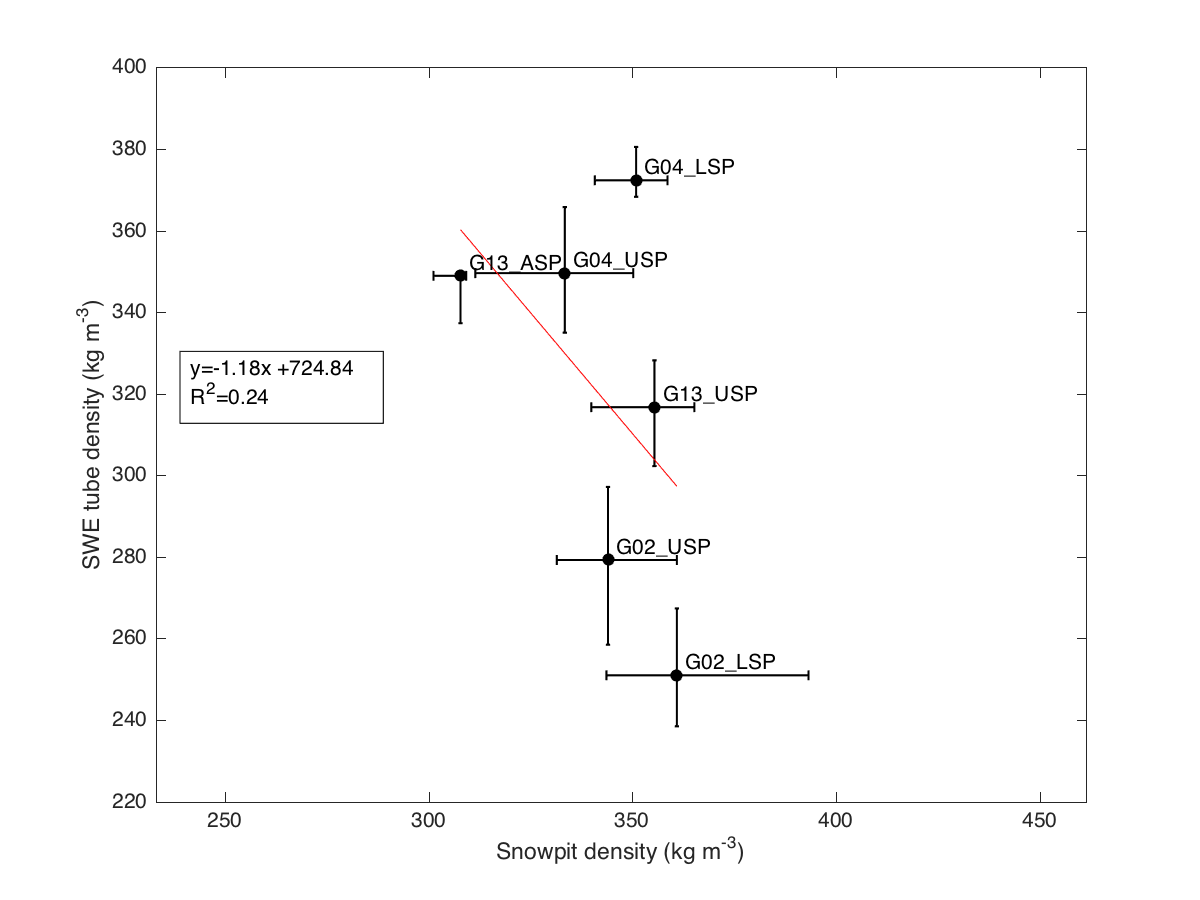
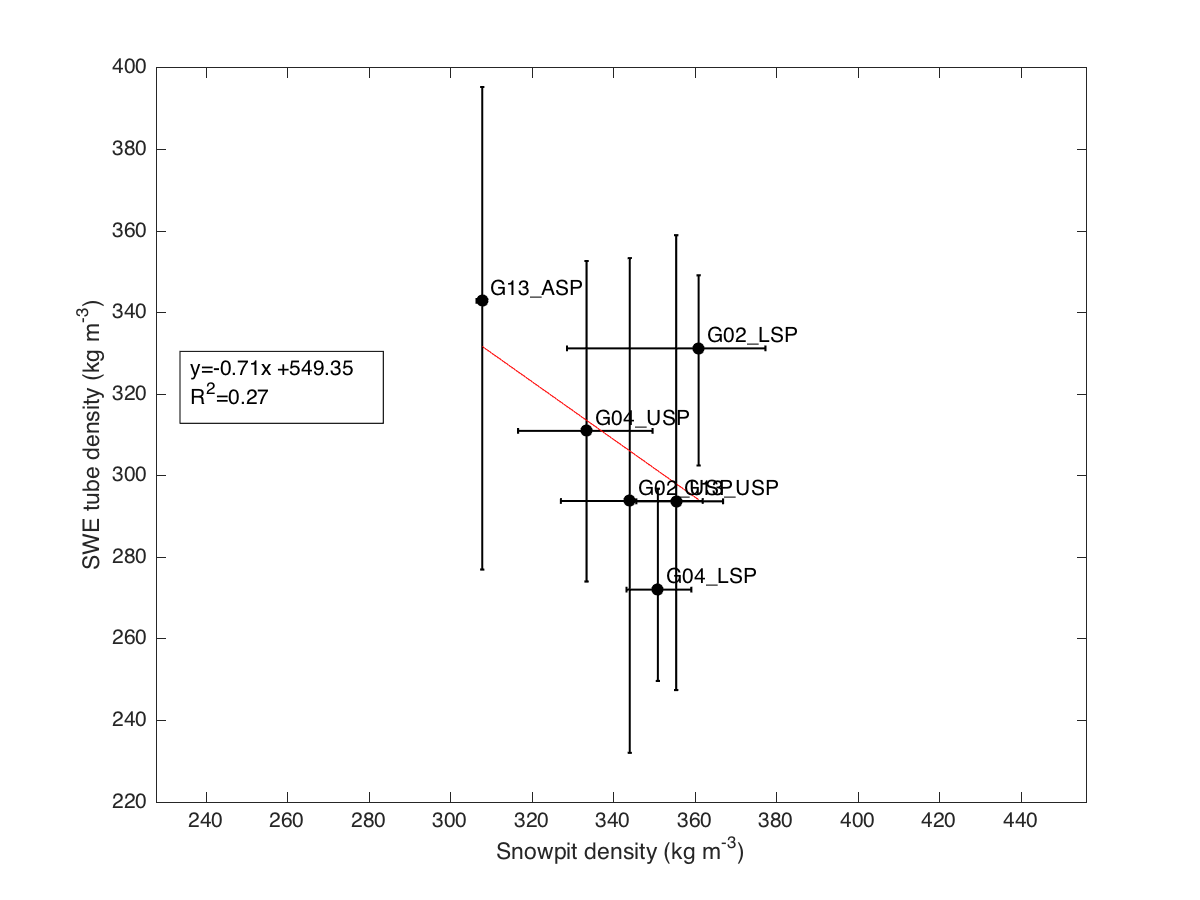
Minor

diff --git a/Methods/Appendix - Density.tex b/Methods/Appendix - Density.tex
@@ -19,9 +19,6 @@
 \Large \textbf{Appendix\\ Density}
 \end{center}
 
-tube vs depth - correction, new SP vs tube
-elevation relation
-
 \subsection*{Federal Sampler measurements and snow depth}
 
 A plot of measured SWE and snow depth can be seen in Figure \ref{fig:tube_depth}. A positive linear relation exists (R$^2$ = 0.55). This positive relationship could be a result of physical processes, such as compaction and/or artifacts during data collection. The range of densities measured by the Federal sampler is large (225--410 kg m^{-3}) and the extreme values seem unlikely to exist at these study glaciers, which experience a continental snowpack with minimal mid-winter melt events. Furthermore, compaction effects would likely be small at these study glaciers because of the relatively shallow snowpack (deepest measurement was 285 cm). A plot of the depth-density relationship in snowpits can be seen in Figure \ref{fig:pit_depth}. No linear relationship exists between depth and snowpit-derived density (R$^2$ = 0.05). Together, these conditions lead to the likely conclusion that the Federal Sampler measurements are biased. 
@@ -52,7 +49,7 @@ To account for this likely artifact, the simplest form of linear detrending was 
 
 \subsection*{Basic statistics}
 
-A summary of density data collected in snowpits and when using a Federal Sampler can be seen in Table \ref{tab:density_stats}. The standard deviation of each type of density measurement is also less than 10\% of the mean density. For snowpit derived densities, the mean density is indistinguishable between glaciers within one standard deviation. This was not observed in densities derived from Federal Sampler measurements --- Glacier 2 had the lowest mean density and Glacier 4 had the highest mean density. The mean of all Federal Sampler density values was likely skewed by the proportionally large number of measurements obtained on Glacier 13, and is thus indistinguishable from Glacier 13 mean density and different than both Glacier 4 and 2 mean density. 
+A summary of density data collected in snowpits and when using a Federal Sampler can be seen in Table \ref{tab:density_stats}. The standard deviation of each type of density measurement is also less than 10\% of the mean density. For snowpit derived densities, the mean density is indistinguishable between glaciers within one standard deviation. This was also observed in the detrended densities derived from Federal Sampler measurements . The mean of all Federal Sampler density values was likely skewed by the proportionally large number of measurements obtained on Glacier 13.
 
 \begin{table}[b!]
 \centering
@@ -61,10 +58,10 @@ A summary of density data collected in snowpits and when using a Federal Sampler
 \begin{tabular}{ccccccc}
 \multirow{2}{*}{\textbf{Glacier}} & \multicolumn{3}{c}{\textbf{Snowpits}}     & \multicolumn{3}{c}{\textbf{Federal Sampler}} \\ 
                                   & Mean & Std & n & Mean  & Std  & n \\ \hline
-\textbf{G04}                      & 348           & 13           & 3          & 360            & 10            & 7           \\
-\textbf{G02}                      & 333           & 26           & 4          & 275            & 18            & 7           \\
-\textbf{G13}                      & 349           & 26           & 3         & 321            & 9             & 17          \\
-\textbf{All}                      & 342           & 26           & 10         & 321            & 9             & 31         
+\textbf{G04}                      & 348           & 13           & 3          & 327            & 32            & 7           \\
+\textbf{G02}                      & 333           & 26           & 4          & 326            & 23            & 7           \\
+\textbf{G13}                      & 349           & 26           & 3         & 307           & 32            & 17          \\
+\textbf{All}                      & 342           & 26           & 10         & 316            & 31             & 31         
 \end{tabular}
 \end{table}
 
@@ -139,11 +136,9 @@ G13\_Z5B\_SWE & 2 & 322 & 318 & 325 & 2
 \end{tabular}
 \end{table}
 
-
-
 \subsection*{Comparing density from snowpit and Federal Sampler measurements}
 
-To compare snowpit-derived densities and Federal Sampler-derived densities, eight Federal Sampler measurements were taken around two snowpit locations on each study glacier. The results are seen in Figure \ref{fig:density_pitVStube}. The overall range of Federal Sampler-derived densities is considerably larger than that of the snowpit-derived density values. A linear regression of the data gives a weak inverse relationship (R$^2$ = 0.24).
+To compare snowpit-derived densities and Federal Sampler-derived densities, eight Federal Sampler measurements were taken around two snowpit locations on each study glacier. The results are seen in Figure \ref{fig:density_pitVStube}. The overall range of Federal Sampler-derived densities is larger than that of the snowpit-derived density values. A linear regression of the data gives a weak inverse relationship (R$^2$ = 0.27). Within the range of possible values (minimum and maximum densities), the density values are same for all snowpit locations except for `G13\_ASP'.
 
 \begin{wrapfigure}{r}{\textwidth} 
 	\centering
@@ -153,7 +148,25 @@ To compare snowpit-derived densities and Federal Sampler-derived densities, eigh
 \end{wrapfigure}
 
 
+\subsection*{Density and elevation}
 
+\subsubsection*{Snowpit density}
+
+A plot of snowpit-derived density and elevation can be seen in Figure \ref{elev_snowpit}. 
+
+\begin{wrapfigure}{r}{\textwidth} 
+	\centering
+	\fbox{\includegraphics[width = \textwidth]{ElevationVsSnowpit_all.png}}\\
+	\caption{Relationship between snowpit-derived density and elevation for all study glaciers.}
+	\label{fig:elev_snowpit}
+\end{wrapfigure}
+
+\begin{wrapfigure}{r}{\textwidth} 
+	\centering
+	\fbox{\includegraphics[width = \textwidth]{ElevationVsSWEtube_all.png}}\\
+	\caption{Relationship between Federal Sampler-derived density and elevation for all study glaciers.}
+	\label{fig:elev_tube}
+\end{wrapfigure}
 
 \begin{enumerate}
 \item 
